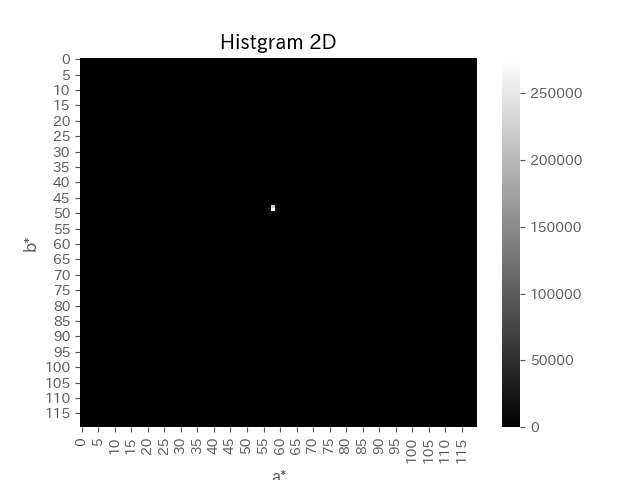
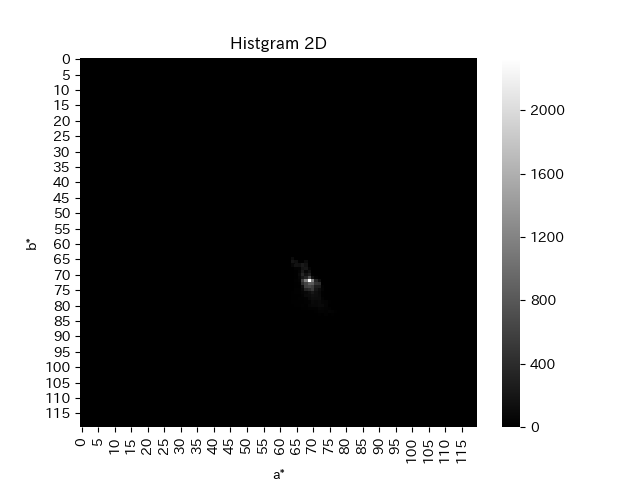
色情報の付与

diff --git a/main.py b/main.py
@@ -9,6 +9,7 @@ import math
 import matplotlib.pyplot as plt
 import glob
 from statistics import mean, stdev
+import seaborn as sns
 
 #研究室で研究するとき
 #path = "./sample/incision_1.jpg"
@@ -631,6 +632,348 @@ def contrast(image, a):#(aはゲイン)
 	return result_image
 
 
+#重心を見つける関数の使いまわし、傷周辺の長方形だけを繰りぬくように改変
+def find_wound_COLOR(img):#HSVカラーモデルから重心を探す
+	hsv = cv.cvtColor(img, cv.COLOR_BGR2HSV_FULL)
+	h = hsv[:, :, 0]#色相(赤の範囲は256段階の200～20と定義するfromhttps://qiita.com/odaman68000/items/ae28cf7bdaf4fa13a65b)
+	s = hsv[:, :, 1]
+	mask = np.zeros(h.shape, dtype=np.uint8)
+	mask[((h < 20) | (h > 200)) & (s > 128)] = 255
+
+	#輪郭を作るうえで塊ごとに配列化する
+	contours, _ = cv.findContours(mask, cv.RETR_TREE, cv.CHAIN_APPROX_SIMPLE)
+
+	rects = []
+	for contour in contours:#contourには輪郭をなすピクセルの情報が入っている
+		approx = cv.convexHull(contour)#凸凹のある塊を内包する凸上の形状を算出して２Dポリゴンに
+		rect = cv.boundingRect(approx)#袋状になったポリゴンがすっぽり入る四角を計算する
+		rects.append(np.array(rect))
+
+	#for rect in rects:
+	#	cv.rectangle(img, tuple(rect[0:2]), tuple(rect[0:2] + rect[2:4]), (0, 0, 255), thickness=2)
+	#	cv.imshow('red', img)
+
+	if(rects == []):
+		return img
+	#最大の四角を見つける
+	result_rect = max(rects, key=(lambda x: x[2] * x[3]))
+
+	#cv.rectangle(img, tuple(result_rect[0:2]), tuple(result_rect[0:2] + result_rect[2:4]), (0, 255, 0), thickness=2)
+	#print(result_rect)
+	re_img = img[ result_rect[1] : result_rect[1] + result_rect[3], result_rect[0] : result_rect[0] + result_rect[2]]
+	x = result_rect[0] + int(round(result_rect[2]/2))
+	y = result_rect[1] + int(round(result_rect[3]/2))
+	#cv.imshow('re_red', re_img)
+	g_point = np.array([x, y])
+
+	return re_img
+
+#画像を読み込んでLab空間に変換
+def toLab(img):
+	cols = 120 #ヒストグラムの行と列の数
+	
+	img_ori = find_wound_COLOR(img)#傷周辺のみを切り抜いた画像
+	img_Lab = cv.cvtColor(img_ori, cv.COLOR_BGR2Lab)
+	#print(img_Lab)
+	img_L, img_a, img_b = cv.split(img_Lab)
+	
+	#明度の解析
+	img_L = np.ndarray.flatten(img_L)
+	#print(int(mean(img_L.tolist()) / 256 * 100))
+	brightness = int(mean(img_L.tolist()) / 256 * 100)
+	
+	#プロットしてみる
+	img_a = np.ndarray.flatten(img_a)
+	img_b = np.ndarray.flatten(img_b)
+	#print(img_a)
+	hist, aedges, bedges= np.histogram2d(img_a, img_b, bins=cols, range=[[0,255],[0,255]])
+	
+	#print(np.array(hist.tolist()).shape)
+	
+	
+	#一度一次元配列に変換してから二次元での位置を確認する
+	tmp_hist = np.ndarray.flatten(hist)
+	
+	#tmp_histで大きな値を10こもってくる
+	max_list1 = []
+	for i in range(1,30):
+		num = sorted(tmp_hist)[-i]
+		if(num == 0):
+			continue
+			
+		indexes = [j for j, z in enumerate(tmp_hist) if z == num]
+		
+		for place in indexes:
+			x = int(place / cols)
+			y = place % cols
+		
+			max_list1.append(np.array([x, y]))
+		
+	
+	#print(max_list1)
+	
+	
+	#hist_list = hist.tolist()
+	#max_list = max(hist_list)
+	#m = max(max_list)
+	
+	#ヒストグラムで一番多きいところの座標を習得 : hist[y][x]
+	#x = hist_list.index(max(hist_list))
+	#y = max_list.index(m)
+	
+	degs = []
+	saturations = []
+	opt = ""
+	for val in max_list1:
+		x = val[0]
+		y = val[1]
+	
+		#原点が（cols/2,cols / 2）担っているのでこれを（0,0）にシフトし、赤を0度として角度で色情報を付与
+		x -= int(cols / 2)
+		y -= int(cols / 2)
+		r = math.sqrt(x**2 + y**2)
+		cos = x / r
+		sin = y / r
+		r = int(r)
+		#print(r)
+		#print(math.degrees(math.acos(cos)))
+		#print(math.degrees(math.asin(sin)))
+		deg = math.degrees(math.acos(cos))
+	
+		if(math.degrees(math.asin(sin)) < 0):#yがマイナスなら下半分
+			deg = -1 * math.fabs(deg)
+		
+		if(brightness >= 60):
+			opt = 'pale'
+			
+		elif(brightness <= 40):
+			opt = 'dark'
+		
+		elif(r <= 20):
+			opt = 'graylsh'
+		
+		elif(20 < r and r <= 40):
+			opt = 'dull'
+			
+		else:
+			opt = ''
+			
+		degs.append([deg, opt])
+	
+	#色の判定
+	color_list = []	
+	for deg in degs:	
+		if(0 <= deg[0] and deg[0] < 10):
+			color_list.append(deg[1] + "_10RP")
+	
+		elif(10 <= deg[0] and deg[0] < 29):
+			color_list.append(deg[1] +"_5R")
+	
+		elif(29 <= deg[0] and deg[0] < 47):
+			color_list.append(deg[1] +"_10R")
+		
+		elif(47 <= deg[0] and deg[0] < 65):
+			color_list.append(deg[1] +"_5YR")
+		
+		elif(65 <= deg[0] and deg[0] < 83):
+			color_list.append(deg[1] +"_10YR")
+		
+		elif(83 <= deg[0] and deg[0] < 101):
+			color_list.append(deg[1] +"_5Y")
+		
+		elif(101 <= deg[0] and deg[0] < 119):
+			color_list.append(deg[1] +"_10Y")
+		
+		elif(119 <= deg[0] and deg[0] < 137):
+			color_list.append(deg[1] +"_5GY")
+		
+		elif(137 <= deg[0] and deg[0] < 155):
+			color_list.append(deg[1] +"_10GY")
+		
+		elif(155 <= deg[0] and deg[0] < 173):
+			color_list.append(deg[1] +"_5G")
+	
+		elif(0 > deg[0] and deg[0] > -10):
+			color_list.append(deg[1] +"_10RP")
+	
+		elif(-10 >= deg[0] and deg[0] > -29):
+			color_list.append(deg[1] +"_5RP")
+	
+		elif(-29 >= deg[0] and deg[0] > -47):
+			color_list.append(deg[1] +"_10P")
+		
+		elif(-47 >= deg[0] and deg[0] > -65):
+			color_list.append(deg[1] +"_5P")
+		
+		elif(-65 >= deg[0] and deg[0] > -83):
+			color_list.append(deg[1] +"_10PB")
+		
+		elif(-83 >= deg[0] and deg[0] > -101):
+			color_list.append(deg[1] +"_5PB")
+		
+		elif(-101 >= deg[0] and deg[0] > -119):
+			color_list.append(deg[1] +"_10B")
+		
+		elif(-119 >= deg[0] and deg[0] > -137):
+			color_list.append(deg[1] +"_5B")
+		
+		elif(-137 >= deg[0] and deg[0] > -155):
+			color_list.append(deg[1] +"_10BG")
+		
+		elif(-155 >= deg[0] and deg[0] > -173):
+			color_list.append(deg[1] +"_5BG")
+	
+		else:
+			color_list.append(deg[1] +"_10G")
+		
+	
+	print(list(set(color_list)))
+	
+	#img = cv.imread(hist)
+	#cv.imshow()
+
+	#histに64*64のマスに値が入ってます
+	plt.figure()
+	sns.heatmap(hist, cmap="binary_r")
+	plt.title("Histgram 2D")
+	plt.xlabel("a*")
+	plt.ylabel("b*")
+	plt.savefig('D:\Sotsuken\Sotsuken_repo\output\heat_map.png')
+	
+	
+
+	#x,y座標を３Dの形式に変換
+	#apos, bpos = np.meshgrid(aedges[:-1], bedges[:-1])
+	#zpos = 0#zは０を始点にする
+
+	#x,y座標の幅を指定
+	#da = apos[0][1] - apos[0][0]
+	#db = bpos[1][0] - bpos[0][0]
+	#dz = hist.ravel()
+
+	#x,yを３Dの形に変換
+	#apos = apos.ravel()
+	#bpos = bpos.ravel()
+
+	#３D描画
+	#fig = plt.figure()#描画領域の作成
+	#aa = fig.add_subplot(111, projection="3d")
+	#aa.bar3d(apos, bpos, zpos, da, db, dz, cmap=cm.hsv)#ヒストグラムを３D空間に表示
+	#plt.title("Histgram 2D")
+	#plt.xlabel("a*")
+	#plt.ylabel("b*")
+	#aa.set_zlabel("Z")
+	#plt.show()
+
+	#src1 = cv.imread('D:\Sotsuken\Sotsuken_repo\output\heat_map.png')
+	#src2 = cv.imread('D:\Sotsuken\Sotsuken_repo\output\Lab2.jpg')
+	#cv.imshow('src', src1)
+	#cv.rectangle(src1, (70, 50), (490, 440), (255, 0, 255), thickness=8, lineType=cv.LINE_4)
+
+	#rect = (80,58, 397, 368)
+	#src1 = src1[ rect[1] : rect[1] + rect[3], rect[0] : rect[0] + rect[2]]
+	#色の表示系がずれているので回転
+	#src1 = cv.rotate(src1, cv.ROTATE_90_COUNTERCLOCKWISE)
+
+	#src1 = cv.resize(src1, src2.shape[1::-1])
+	#dst = cv.addWeighted(src1, 0.5, src2, 0.5, 0)
+
+	#cv.imshow('result.jpg', dst)
+	#cv.waitKey()
+	return list(set(color_list))
+	
+def color_judge(color_list):
+	palette = [0]*100
+
+	for color in color_list:
+		opt = color.split("_")
+	
+		num1 = 0
+		num2 = 0
+		#opt[0]がオプションopt[1]が色相
+		if(opt[0] == 'pale'):
+			num1 = 0
+	
+		elif(opt[0] == 'graylsh'):
+			num1 = 1
+		
+		elif(opt[0] == 'dull'):
+			num1 = 2
+		
+		elif(opt[0] == 'dark'):
+			num1 = 3
+	
+		else:
+			num1 = 4
+	
+		#ここから色相
+		if(opt[1] == '5Y'):
+			num2 = 0
+	
+		elif(opt[1] == '10YR'):
+			num2 = 1
+		
+		elif(opt[1] == '5YR'):
+			num2 = 2
+		
+		elif(opt[1] == '10R'):
+			num2 = 3
+	
+		elif(opt[1] == '5R'):
+			num2 = 4
+	
+		elif(opt[1] == '10RP'):
+			num2 = 5
+	
+		elif(opt[1] == '5RP'):
+			num2 = 6
+		
+		elif(opt[1] == '10P'):
+			num2 = 7
+
+		elif(opt[1] == '5P'):
+			num2 = 8
+		
+		elif(opt[1] == '10PB'):
+			num2 = 9
+		
+		elif(opt[1] == '5PB'):
+			num2 = 10
+		
+		elif(opt[1] == '10B'):
+			num2 = 11
+		
+		elif(opt[1] == '5B'):
+			num2 = 12
+		
+		elif(opt[1] == '10BG'):
+			num2 = 13
+		
+		elif(opt[1] == '5BG'):
+			num2 = 14
+		
+		elif(opt[1] == '10G'):
+			num2 = 15
+		
+		elif(opt[1] == '5G'):
+			num2 = 16
+	
+		elif(opt[1] == '10GY'):
+			num2 = 17
+		
+		elif(opt[1] == '5GY'):
+			num2 = 18
+		
+		else:#10Y
+			num2 = 19
+		
+		num3 = num2 * 5 + num1
+		palette[num3] = 1
+		
+	return palette
+
+
+
 #pullpush判定は使わないかも
 def pullpush_judge(img):#文字列でpullかpushかを返します
 	global light_point, kaizoudo
@@ -879,7 +1222,7 @@ def judge(img):
 	oval = oval_judge(img)
 	
 	#色の判定
-	#palette = color_judge(toLab(img))
+	palette = color_judge(toLab(img))
 	
 	print("創端鋭利："+str(end_sharp)+"　創端太："+str(end_thick)+" 創縁不整："+str(edge_irregular)+" 創縁直線："+str(edge_straight)+"　円度："+ str(oval)
 	+"　開放性："+ str(openness)+"　非開放性："+ str(non_openness))
@@ -887,7 +1230,7 @@ def judge(img):
 	result = [end_sharp, end_thick, edge_irregular, edge_straight, oval]
 	
 	#色情報と合成
-	#result.extend(palette)
+	result.extend(palette)
 	
 	return result
 	
